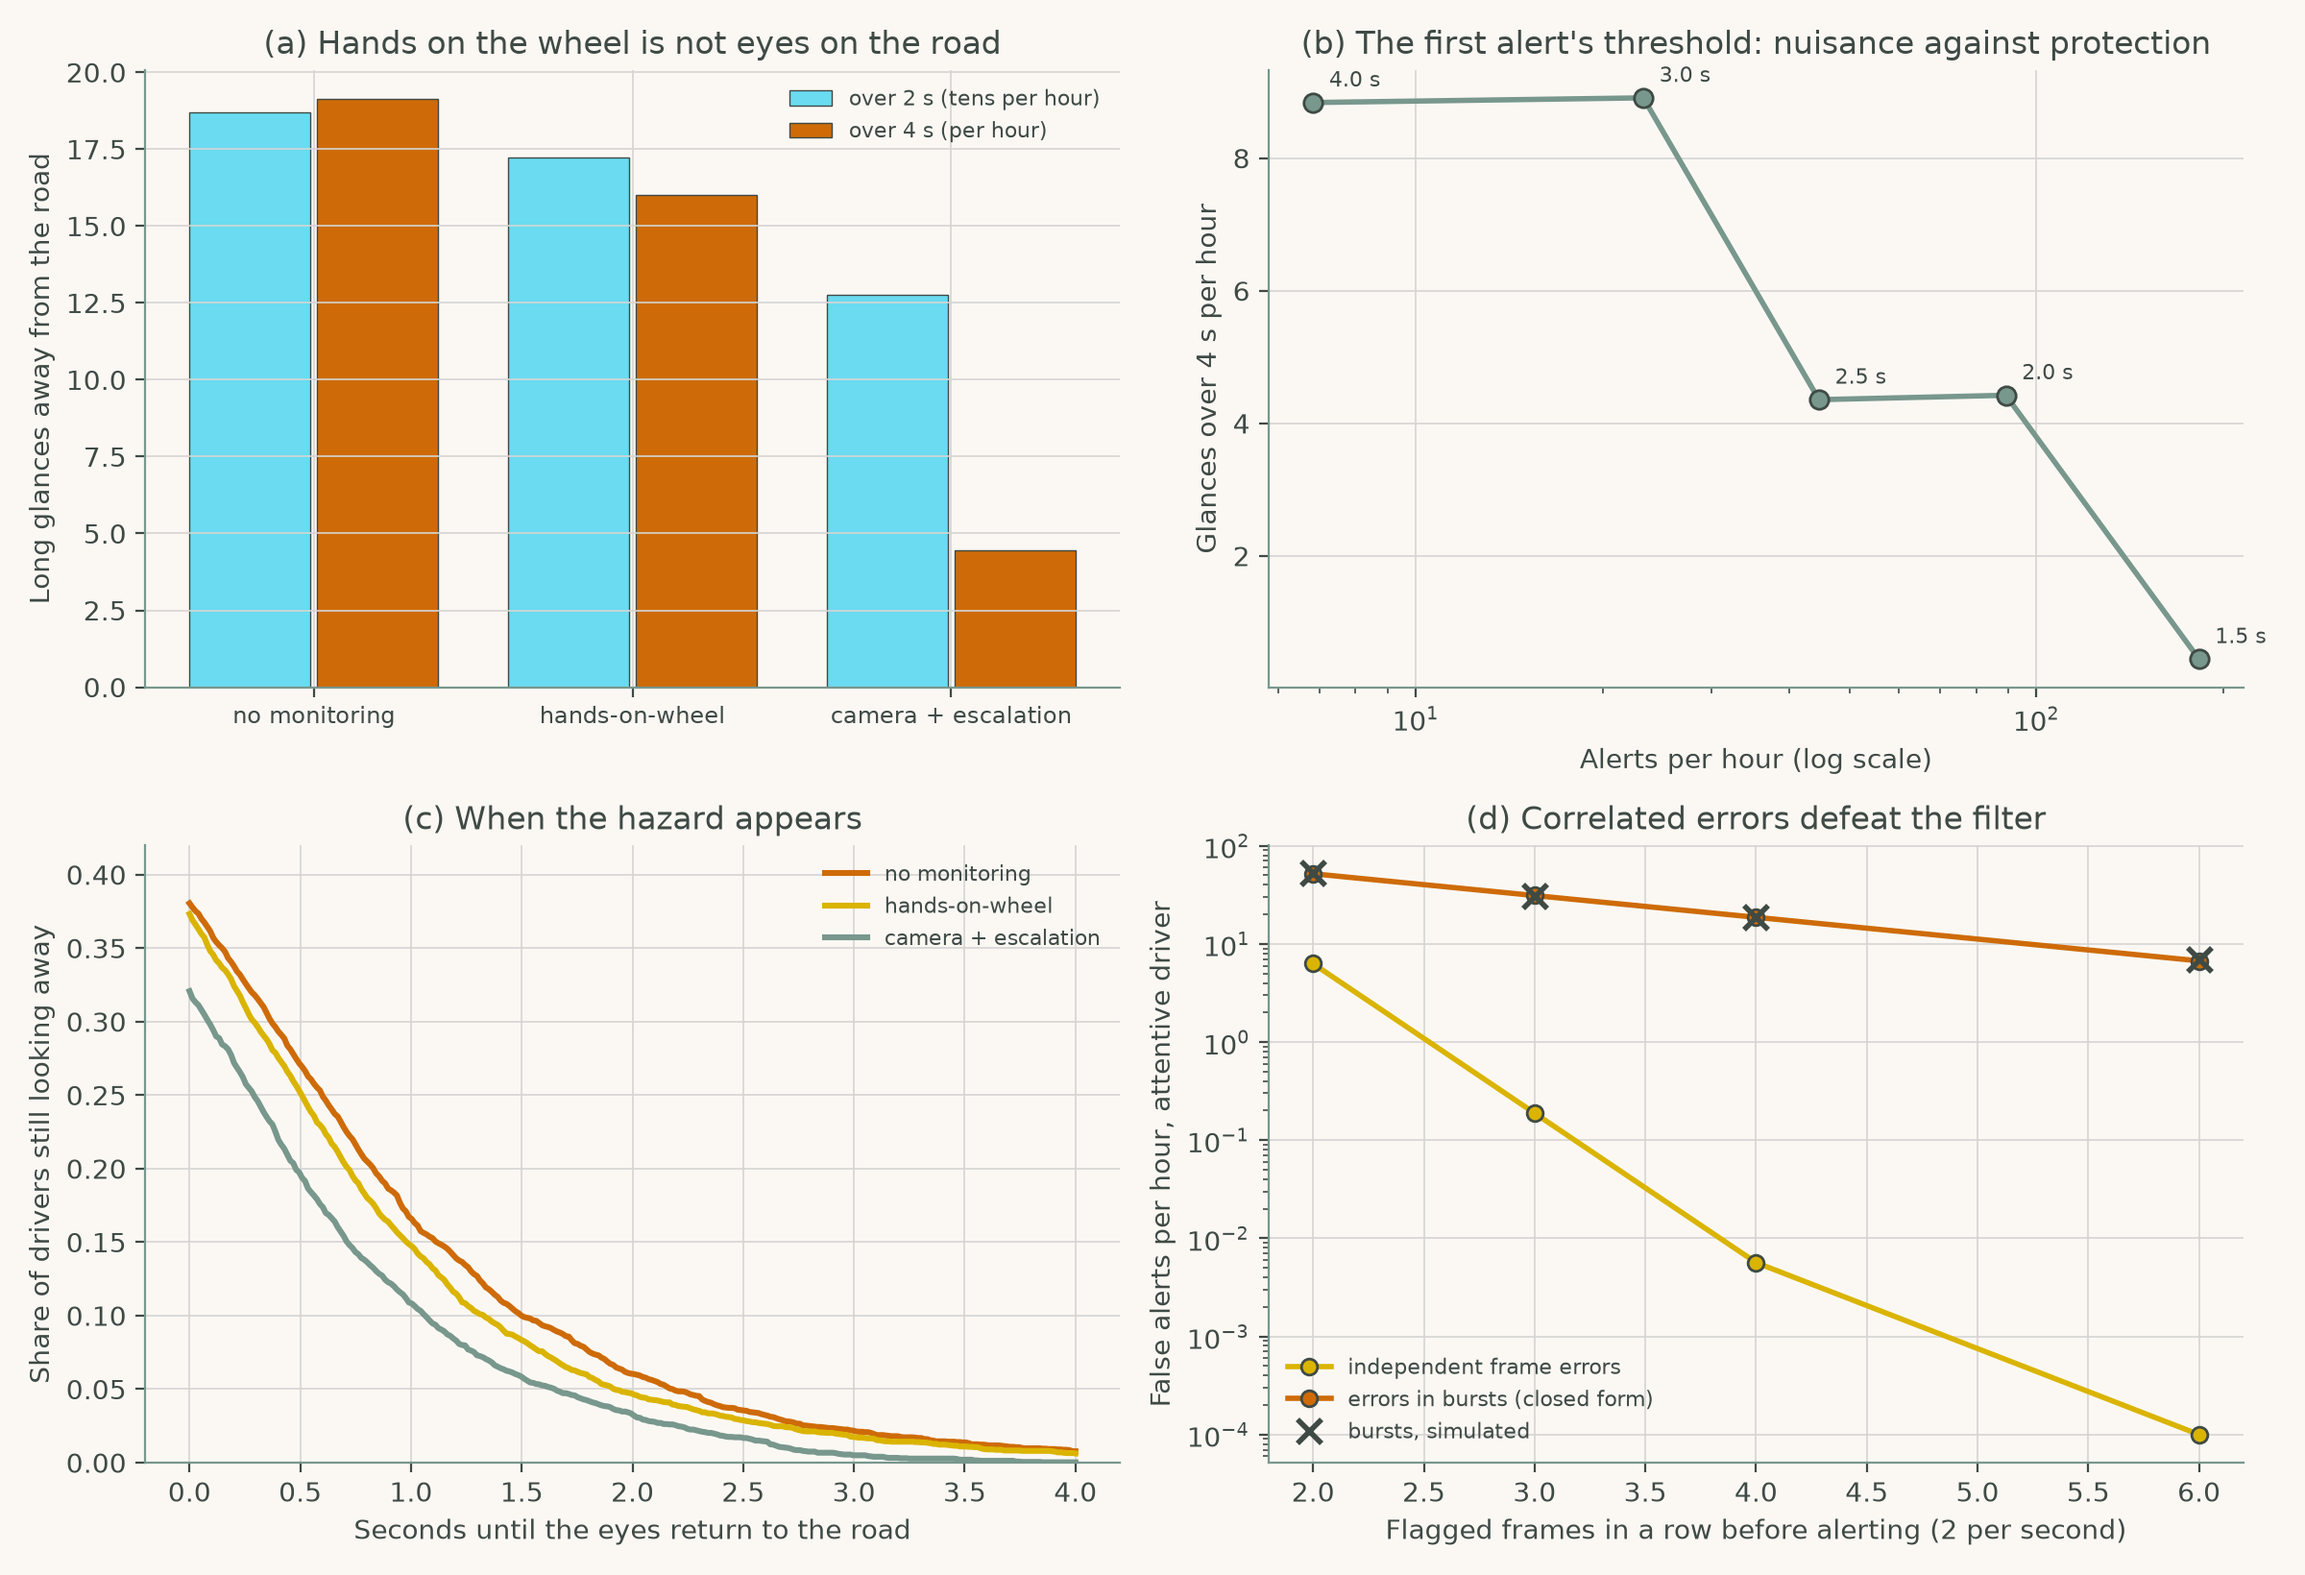
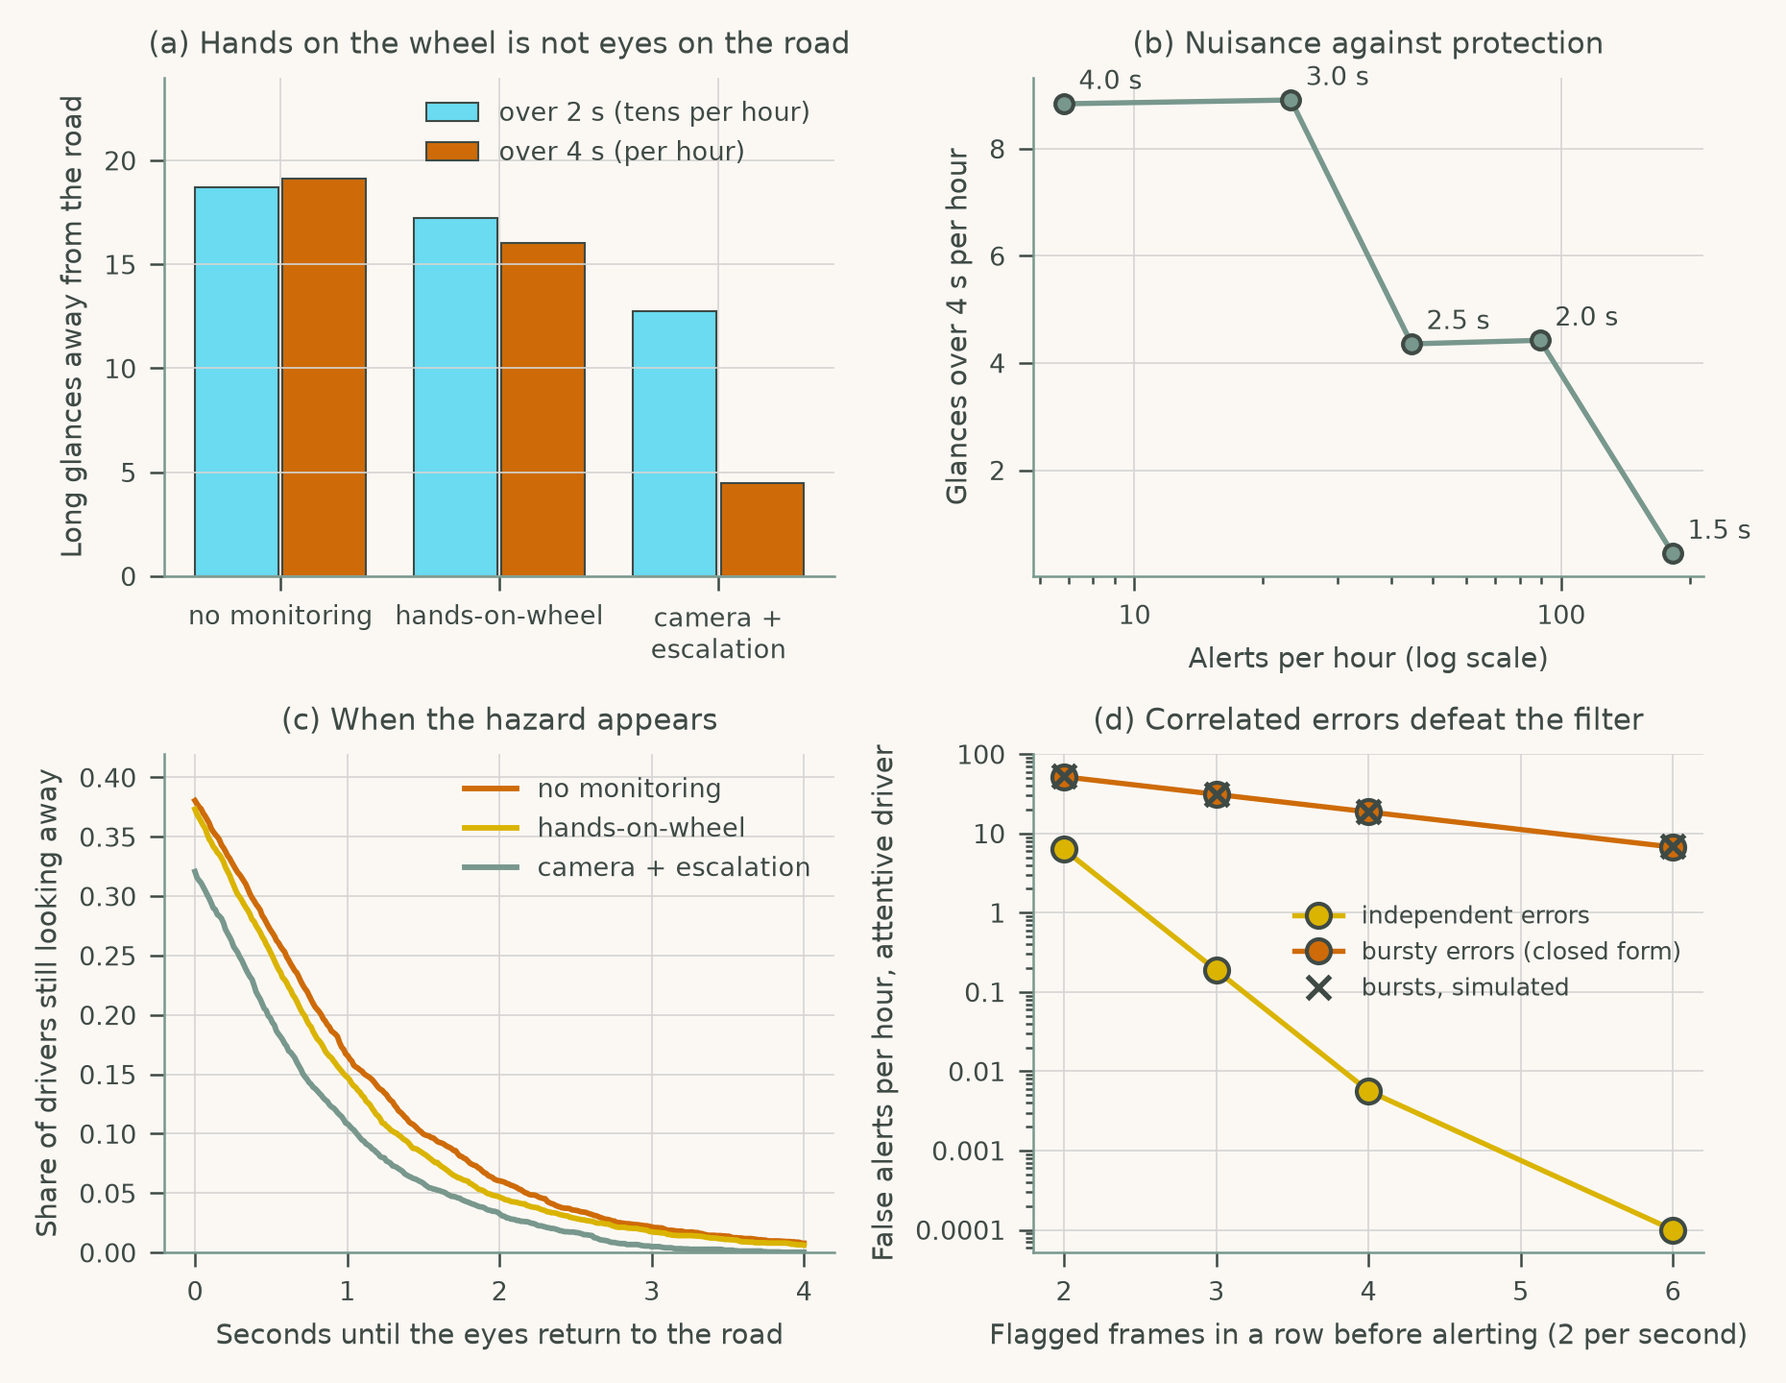
Redraw Chapter 5 figures at print size with readable type

diff --git a/chapters/ch05_driver_assistance/cs2_takeover_timing.py b/chapters/ch05_driver_assistance/cs2_takeover_timing.py
@@ -131,48 +131,53 @@ plt.rcParams.update({
     "xtick.color": INK, "ytick.color": INK,
     "figure.facecolor": PAPER, "axes.facecolor": PAPER,
     "axes.spines.top": False, "axes.spines.right": False,
-    "axes.grid": True, "grid.color": GRID, "grid.linewidth": 0.6})
-fig, ax = plt.subplots(2, 2, figsize=(12, 8.2))
+    "axes.grid": True, "grid.color": GRID, "grid.linewidth": 0.4,
+    "font.size": 7, "axes.titlesize": 7.5, "axes.labelsize": 7, "legend.fontsize": 6.5,
+    "xtick.labelsize": 6.5, "ytick.labelsize": 6.5, "axes.linewidth": 0.6,
+    "xtick.major.width": 0.6, "ytick.major.width": 0.6, "lines.linewidth": 1.2,
+    "legend.frameon": False})
+fig, ax = plt.subplots(2, 2, figsize=(6.2, 4.8))
 col = {"no secondary task": SAGE, "phone": GOLD, "reading": RUST}
 a = ax[0, 0]                                                   # (a) takeover times
 tt = np.linspace(0.01, 12, 400)
 for k, (med, sd, w) in TASKS.items():
-    a.plot(tt, stats.lognorm.pdf(tt, sd, scale=med), color=col[k], lw=2.2,
+    a.plot(tt, stats.lognorm.pdf(tt, sd, scale=med), color=col[k], lw=1.4,
            label=f"{k} (median {med:.1f} s)")
 a.set(xlabel="Takeover time (s)", ylabel="Density",
       title="(a) The secondary task sets the takeover time")
-a.legend(fontsize=8, frameon=False)
+a.legend(fontsize=6.5)
 a = ax[0, 1]                                                   # (b) coverage
 ll = np.linspace(2.5, 16, 300)
 for k in TASKS:
-    a.plot(ll, cdf_task(ll - MANEUVER, k), color=col[k], lw=1.6, ls="--")
-a.plot(ll, cdf_mix(ll - MANEUVER), color=INK, lw=2.6, label="all drivers")
-a.plot(cov.lead_time_s, cov.all_sim, "o", color=INK, ms=6, label="simulated")
+    a.plot(ll, cdf_task(ll - MANEUVER, k), color=col[k], lw=1, ls="--")
+a.plot(ll, cdf_mix(ll - MANEUVER), color=INK, lw=1.7, label="all drivers")
+a.plot(cov.lead_time_s, cov.all_sim, "o", color=INK, ms=3.9, label="simulated")
 for share, ls in [(0.95, ":"), (0.99, "-.")]:
-    a.axhline(share, color=INK, ls=ls, lw=0.9)
+    a.axhline(share, color=INK, ls=ls, lw=0.6)
 a.set(xlabel="Lead time of the takeover request (s)", ylabel="Share taking over in time",
       title="(b) What a lead time buys (dashed: by task)", ylim=(0, 1.02))
-a.legend(fontsize=8, frameon=False, loc="lower right")
+a.legend(fontsize=6.5, loc="lower right")
 a = ax[1, 0]                                                   # (c) crash risk
 for kmh, c in [(80, SAGE), (100, GOLD), (120, RUST), (130, INK)]:
-    a.semilogy(ll, [p_crash(x, kmh) for x in ll], color=c, lw=2, label=f"{kmh} km/h")
-a.semilogy(phys.assign(l=7.0).l, phys.P_crash_7s_sim, "o", color=INK, ms=5)
-a.axhline(0.01, color=INK, ls=":", lw=1)
-a.axvline(7.0, color=INK, ls="--", lw=0.9)
+    a.semilogy(ll, [p_crash(x, kmh) for x in ll], color=c, lw=1.3, label=f"{kmh} km/h")
+a.semilogy(phys.assign(l=7.0).l, phys.P_crash_7s_sim, "o", color=INK, ms=3.2)
+a.axhline(0.01, color=INK, ls=":", lw=0.6)
+a.axvline(7.0, color=INK, ls="--", lw=0.6)
 a.set(xlabel="Lead time of the takeover request (s)",
       ylabel="P(collision with a stopped vehicle)",
       title="(c) Seven seconds is not enough at speed", ylim=(1e-3, 1))
-a.legend(fontsize=8, frameon=False, loc="lower left")
+a.yaxis.set_major_formatter(plt.FuncFormatter(lambda v, _: f"{v:g}"))
+a.legend(fontsize=6.5, loc="lower left", ncol=2)
 a = ax[1, 1]                                                   # (d) validation tests
 cc = np.linspace(0.90, 1.0, 300)
 for (n, c, lab, colr) in [(59, 0, "59 drivers, none late", GOLD),
                           (93, 1, "93 drivers, at most 1 late", OLIVE),
                           (n_p, c_p, f"{n_p} drivers, at most {c_p} late", SAGE)]:
-    a.plot(cc, stats.binom.cdf(c, n, 1 - cc), color=colr, lw=2.2, label=lab)
-a.axvline(0.95, color=RUST, ls=":", lw=1.2)
-a.axvline(0.98, color=SAGE, ls=":", lw=1.2)
+    a.plot(cc, stats.binom.cdf(c, n, 1 - cc), color=colr, lw=1.4, label=lab)
+a.axvline(0.95, color=RUST, ls=":", lw=0.8)
+a.axvline(0.98, color=SAGE, ls=":", lw=0.8)
 a.set(xlabel="True share of drivers taking over in time",
       ylabel="Probability the test passes",
       title="(d) A 95/95 test needs power, not only confidence")
-a.legend(fontsize=8, frameon=False, loc="upper left")
-fig.tight_layout(); fig.savefig("chap05_fig02_takeover.png", dpi=200)
+a.legend(fontsize=6, loc="center left")
+fig.tight_layout(); fig.savefig("chap05_fig02_takeover.png", dpi=300)

diff --git a/chapters/ch05_driver_assistance/cs1_driver_monitoring.py b/chapters/ch05_driver_assistance/cs1_driver_monitoring.py
@@ -158,8 +158,12 @@ plt.rcParams.update({
     "xtick.color": INK, "ytick.color": INK,
     "figure.facecolor": PAPER, "axes.facecolor": PAPER,
     "axes.spines.top": False, "axes.spines.right": False,
-    "axes.grid": True, "grid.color": GRID, "grid.linewidth": 0.6})
-fig, ax = plt.subplots(2, 2, figsize=(12, 8.2))
+    "axes.grid": True, "grid.color": GRID, "grid.linewidth": 0.4,
+    "font.size": 7, "axes.titlesize": 7.5, "axes.labelsize": 7, "legend.fontsize": 6.5,
+    "xtick.labelsize": 6.5, "ytick.labelsize": 6.5, "axes.linewidth": 0.6,
+    "xtick.major.width": 0.6, "ytick.major.width": 0.6, "lines.linewidth": 1.2,
+    "legend.frameon": False})
+fig, ax = plt.subplots(2, 2, figsize=(6.2, 4.8))
 col = {"no monitoring": RUST, "hands-on-wheel": GOLD, "camera + escalation": SAGE}
 a = ax[0, 0]                                                   # (a) long glances
 x = np.arange(3)
@@ -167,37 +171,39 @@ a.bar(x - 0.2, tab.gt2s_per_h / 10, 0.38, color=SKY, edgecolor=INK, lw=0.5,
       label="over 2 s (tens per hour)")
 a.bar(x + 0.2, tab.gt4s_per_h, 0.38, color=RUST, edgecolor=INK, lw=0.5,
       label="over 4 s (per hour)")
-a.set_xticks(x, list(DRIFT), fontsize=8.5)
+a.set_xticks(x, [d.replace(" + ", " +\n") for d in DRIFT], fontsize=6.5)
 a.set(ylabel="Long glances away from the road",
-      title="(a) Hands on the wheel is not eyes on the road")
-a.legend(fontsize=8, frameon=False)
+      title="(a) Hands on the wheel is not eyes on the road", ylim=(0, 24))
+a.legend(fontsize=6.5)
 a = ax[0, 1]                                                   # (b) threshold trade-off
-a.plot(sweep.alerts_per_h, sweep.glances_gt4s_per_h, "-o", color=SAGE, mec=INK, lw=2, ms=7)
+a.plot(sweep.alerts_per_h, sweep.glances_gt4s_per_h, "-o", color=SAGE, mec=INK, lw=1.3, ms=4.5)
 for _, r in sweep.iterrows():
     a.annotate(f"{r.first_alert_s:.1f} s", (r.alerts_per_h, r.glances_gt4s_per_h),
-               textcoords="offset points", xytext=(6, 6), fontsize=8)
+               textcoords="offset points", xytext=(3.7, 3.7), fontsize=6.5)
 a.set_xscale("log")
+a.xaxis.set_major_formatter(plt.FuncFormatter(lambda v, _: f"{v:g}"))
 a.set(xlabel="Alerts per hour (log scale)", ylabel="Glances over 4 s per hour",
-      title="(b) The first alert's threshold: nuisance against protection")
+      title="(b) Nuisance against protection")
 # (c) readiness at the hazard
 a = ax[1, 0]
 w = np.linspace(0, 4, 300)
 for s, r in res.items():
     rr = np.nan_to_num(r["resid"], nan=0.0)
-    a.plot(w, [(rr > v).mean() for v in w], color=col[s], lw=2.2, label=s)
+    a.plot(w, [(rr > v).mean() for v in w], color=col[s], lw=1.4, label=s)
 a.set(xlabel="Seconds until the eyes return to the road",
       ylabel="Share of drivers still looking away",
       title="(c) When the hazard appears", ylim=(0, 0.42))
-a.legend(fontsize=8, frameon=False)
+a.legend(fontsize=6.5)
 a = ax[1, 1]                                                   # (d) false alerts
 a.semilogy(fa.k, np.maximum(fa.indep_per_h, 1e-4), "-o", color=GOLD,
-           mec=INK, lw=2, label="independent frame errors")
-a.semilogy(fa.k, fa.bursty_per_h, "-o", color=RUST, mec=INK, lw=2,
-           label="errors in bursts (closed form)")
-a.semilogy(fa.k, fa.bursty_sim, "x", color=INK, ms=9, mew=2,
+           mec=INK, lw=1.3, label="independent errors")
+a.semilogy(fa.k, fa.bursty_per_h, "-o", color=RUST, mec=INK, lw=1.3,
+           label="bursty errors (closed form)")
+a.semilogy(fa.k, fa.bursty_sim, "x", color=INK, ms=5.8, mew=1.3,
            label="bursts, simulated")
 a.set(xlabel="Flagged frames in a row before alerting (2 per second)",
       ylabel="False alerts per hour, attentive driver",
       title="(d) Correlated errors defeat the filter")
-a.legend(fontsize=8, frameon=False, loc="lower left")
-fig.tight_layout(); fig.savefig("chap05_fig01_monitoring.png", dpi=200)
+a.yaxis.set_major_formatter(plt.FuncFormatter(lambda v, _: f"{v:g}"))
+a.legend(fontsize=6, loc="center right", bbox_to_anchor=(1, 0.6))
+fig.tight_layout(); fig.savefig("chap05_fig01_monitoring.png", dpi=300)
